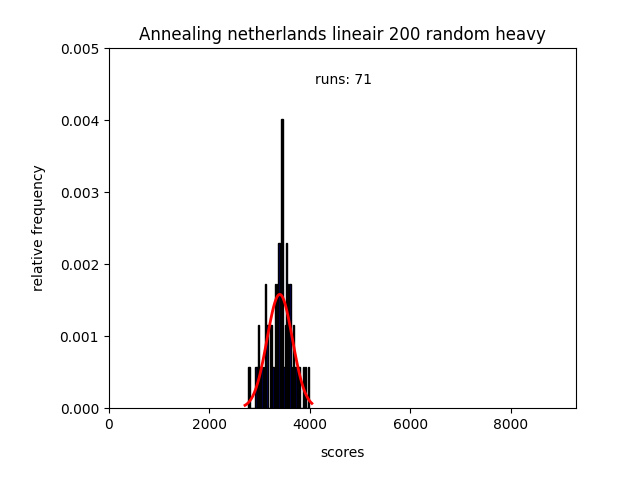
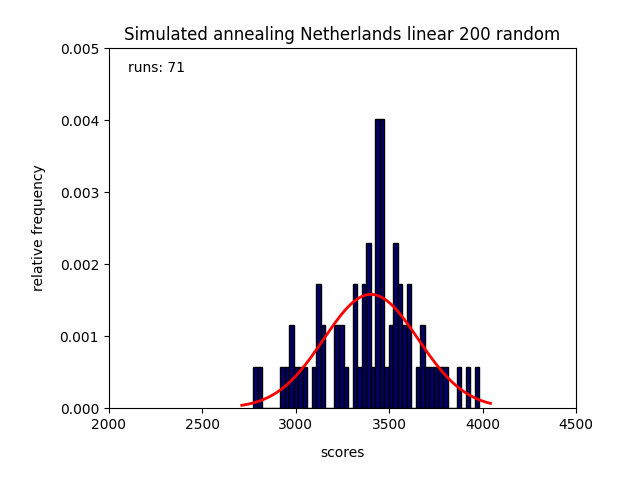
presentation visualisation

diff --git a/code/visualisation/visualisation_experiments_script.py b/code/visualisation/visualisation_experiments_script.py
@@ -204,12 +204,15 @@ if __name__ == "__main__":
     #make_plots_ppa('holland', 'random', 'sequential')
     #make_plots_ppa_nl('netherlands', 'hill_climber', 'sequential')
 
-    results_dict = read_csv(f"../../data/annealing/experiment_annealing_grid_search_holland_lineair_200.csv", 'run_id')
+    results_dict_lineair = read_csv(f"../../data/annealing/experiment_annealing_grid_search_netherlands_lineair_200.csv", 'run_id')
+    results_dict_logaritmic = read_csv(f"../../data/annealing/experiment_annealing_grid_search_netherlands_logaritmic_200.csv", 'run_id')
+    results_dict_exponential = read_csv(f"../../data/annealing/experiment_annealing_grid_search_netherlands_exponential_200.csv", 'run_id')
     #onegrid_hc(results_dict, f"../../docs/presentation/assets/plots_def/line_annealing_netherlands_logaritmic_200_valid_heavy", "Simulated annealing Netherlands logarithmic 200 valid heavy", "valid", "heavy", 'linediagram')
 
 
 
     #onegrid_hc(results_dict, f"../../docs/presentation/assets/plots_def/histo_hill_climber_holland_valid_heavy", "Hill-climber Holland valid heavy", "valid", "heavy", 'histogram')
     #onegrid_hc(results_dict, f"../../docs/presentation/assets/plots_def/histo_hill_climber_holland_random_heavy", "Hill-climber Holland random heavy", "random", "heavy", 'histogram')
-    onegrid_hc(results_dict, f"../../docs/presentation/assets/plots_def/histo_annealing_valid", "Simulated annealing Holland linear 200 valid", "valid", "heavy", 'histogram')
-    onegrid_hc(results_dict, f"../../docs/presentation/assets/plots_def/histo_annealing_random", "Simulated annealing Holland linear 200 random", "random", "heavy", 'histogram')
+    onegrid_hc(results_dict_lineair, f"../../docs/presentation/assets/plots_def/histo_annealing_netherlands_lineair_200_random_heavy", "Simulated annealing Netherlands linear 200 random", "random", "heavy", 'histogram')
+    onegrid_hc(results_dict_logaritmic, f"../../docs/presentation/assets/plots_def/histo_annealing_netherlands_logaritmic_200_random_heavy", "Simulated annealing Netherlands logarithmic 200 random", "random", "heavy", 'histogram')
+    onegrid_hc(results_dict_exponential, f"../../docs/presentation/assets/plots_def/histo_annealing_netherlands_exponential_200_random_heavy", "Simulated annealing Netherlands exponential 200 random", "random", "heavy", 'histogram')

diff --git a/code/visualisation/statistics.py b/code/visualisation/statistics.py
@@ -39,9 +39,9 @@ def make_histogram(values: list, title_histogram: str, filepath: str, text: str 
     #if 'netherlands' in title_list:
        #plt.xlim(0, 9300)
     #elif 'holland' in title_list:
-    plt.xlim(7000, 9300)
+    plt.xlim(2000, 4500)
     plt.annotate(text, xy=(0.2, 0.85), fontsize = 10, xycoords='figure fraction')
-    #plt.ylim(0, 0.003)
+    plt.ylim(0, 0.005)
     plt.subplots_adjust(left=0.17, right=0.9, top=0.9, bottom=0.15)
     plt.savefig(
         f'{filepath}.png')
